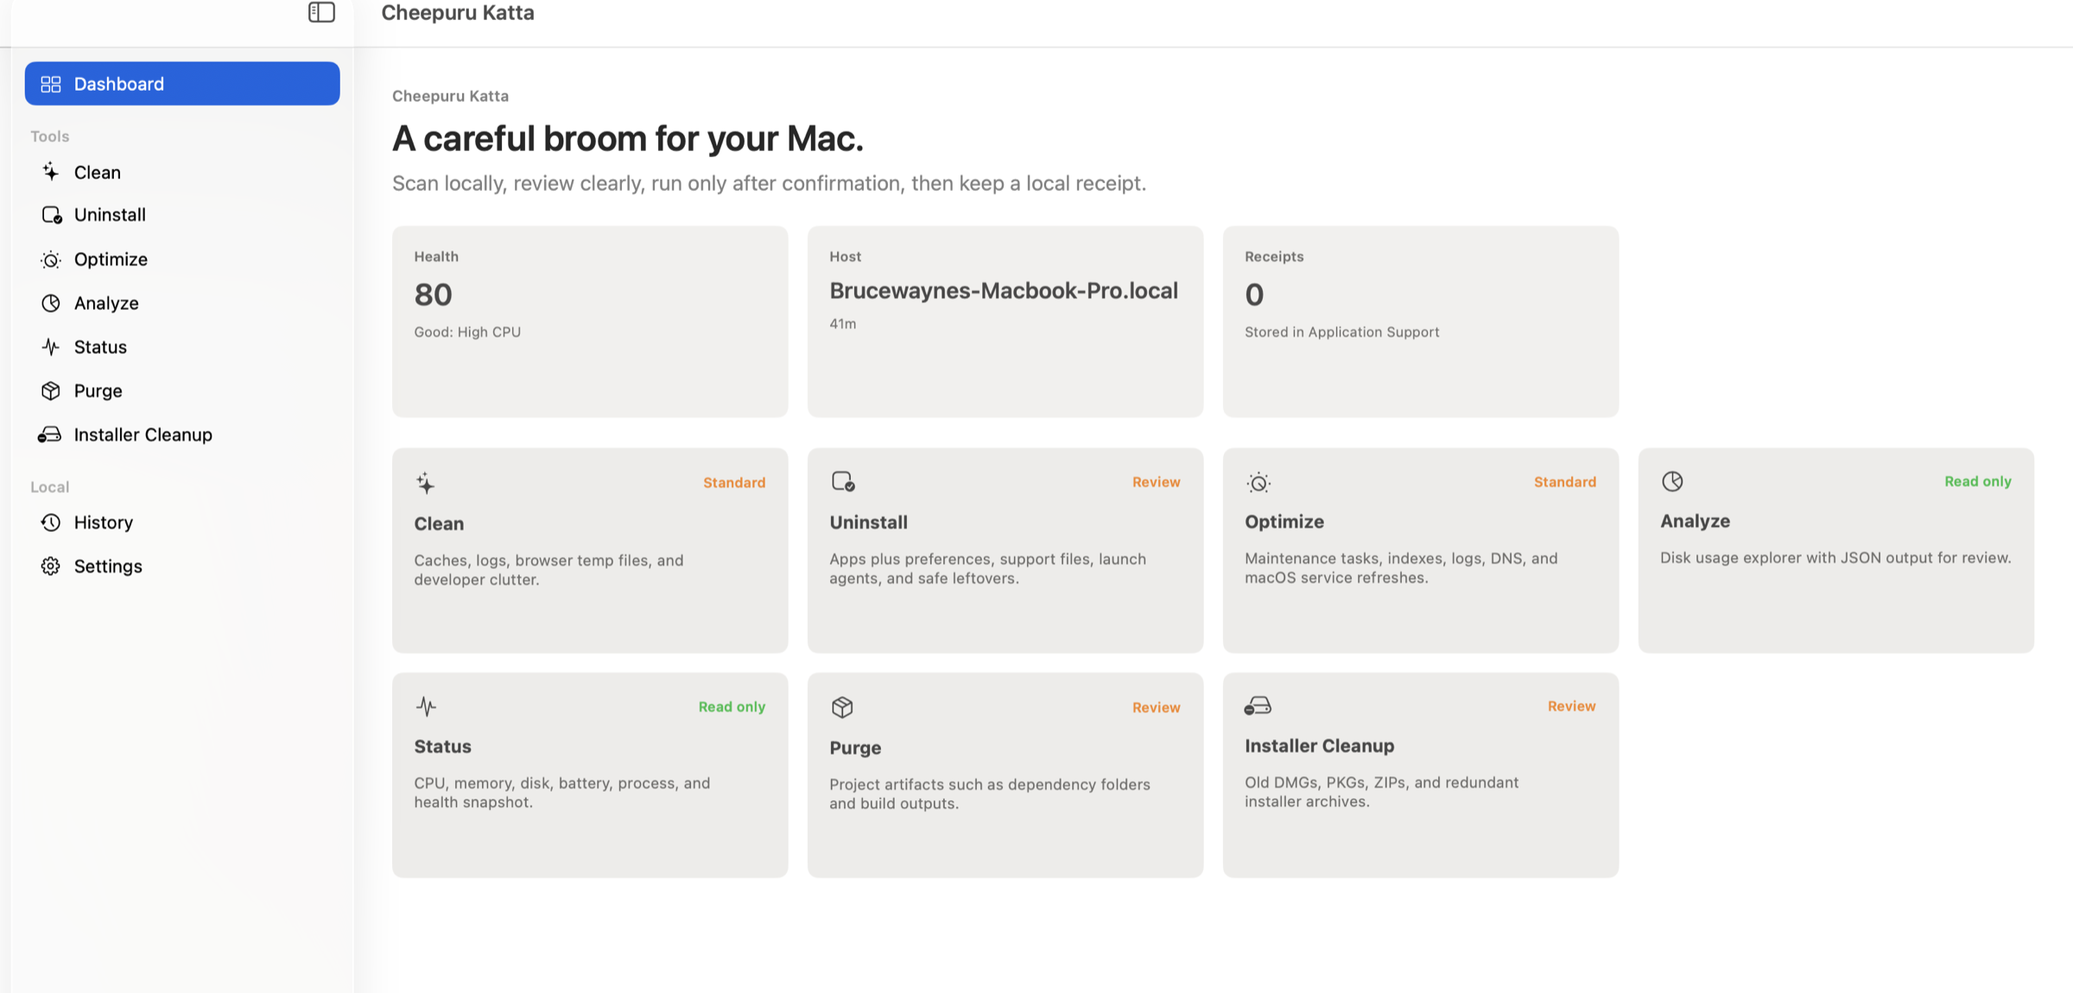
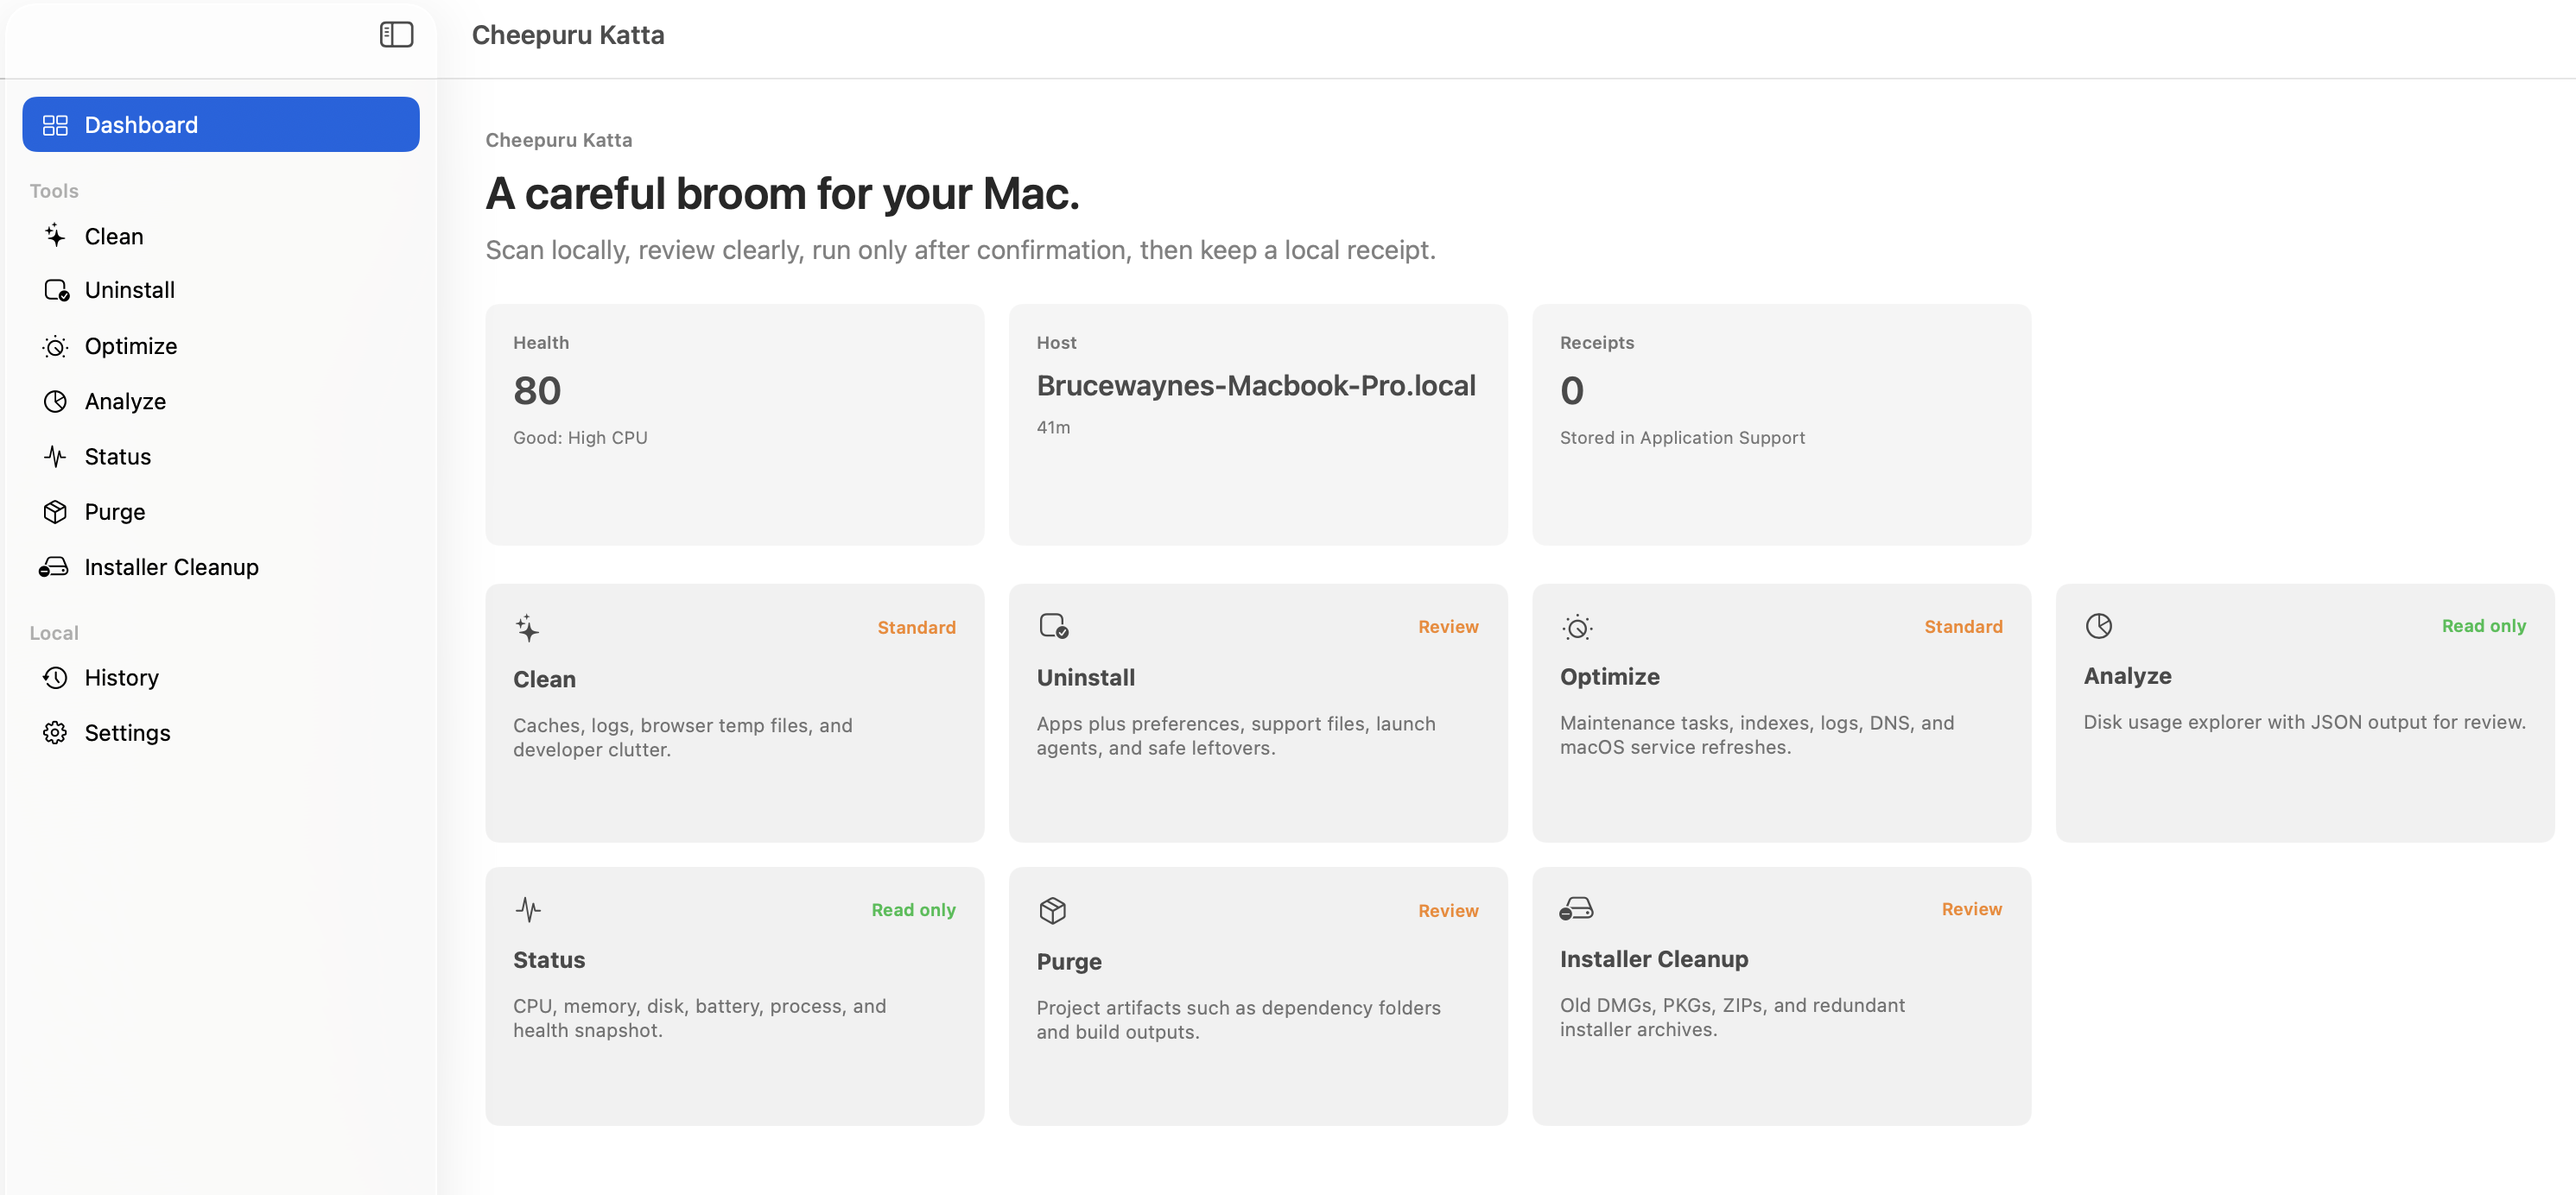
fix: accept box mode alias and update screenshots

diff --git a/site/styles.css b/site/styles.css
@@ -16,11 +16,11 @@
   --radius: 8px;
   --max: 1160px;
   --hero-shot-width: 680px;
-  --hero-shot-height: 326px;
+  --hero-shot-height: 316px;
   --hero-shot-top: 34px;
   --hero-shot-shift: 0px;
   --product-shot-width: 420px;
-  --product-shot-height: 820px;
+  --product-shot-height: 686px;
   --product-shot-top: 30px;
   --product-shot-shift: 0px;
 }

diff --git a/site/app.js b/site/app.js
@@ -89,7 +89,8 @@ function createHandle(direction) {
 
 function setupBoxMode() {
   const params = new URLSearchParams(window.location.search);
-  if (params.get("boxes") !== "1") return;
+  const boxModeRequested = params.get("box") === "1" || params.get("boxes") === "1";
+  if (!boxModeRequested) return;
 
   document.body.dataset.boxMode = "true";
 

diff --git a/site/README.md b/site/README.md
@@ -16,6 +16,8 @@ To tune the live website screenshot boxes, open:
 http://127.0.0.1:4173/?boxes=1
 ```
 
+The short form `http://127.0.0.1:4173/?box=1` works too.
+
 The boxes appear directly around the real homepage images. Drag the label to move a box, resize from any side or corner, then copy the printed values.
 
 ## Configure Links
